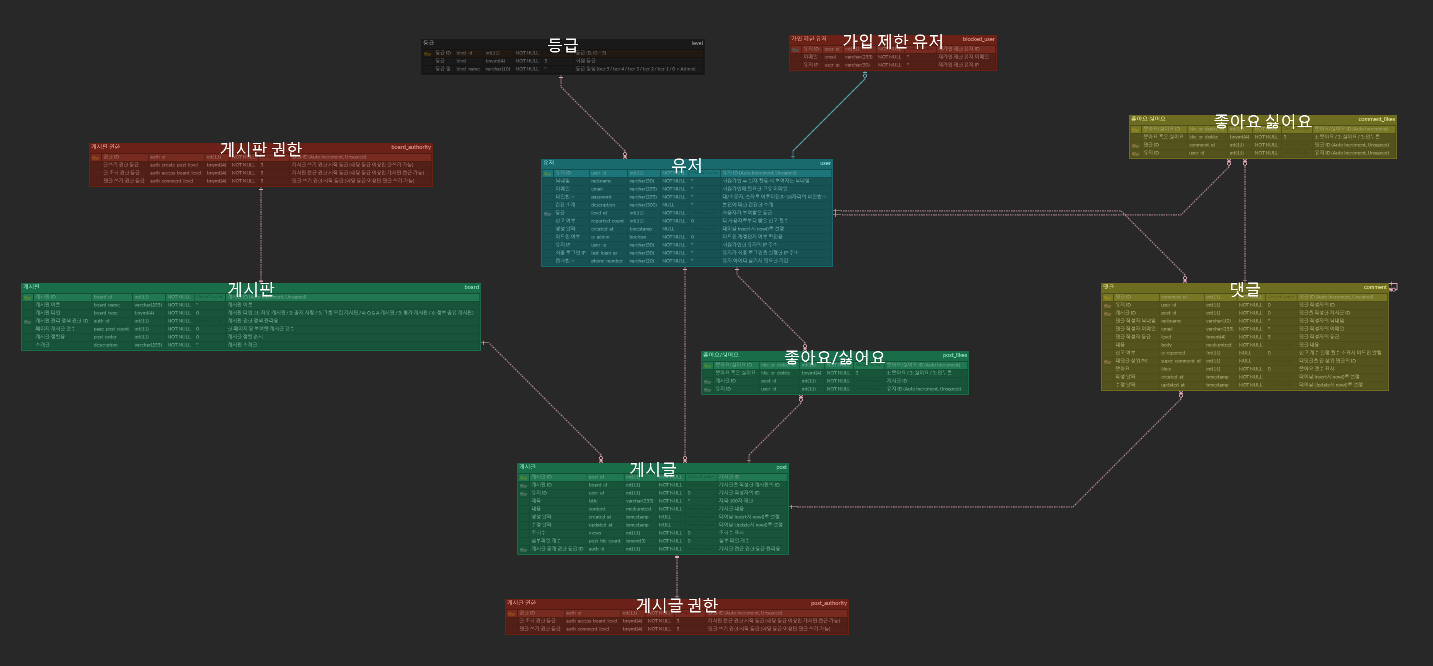
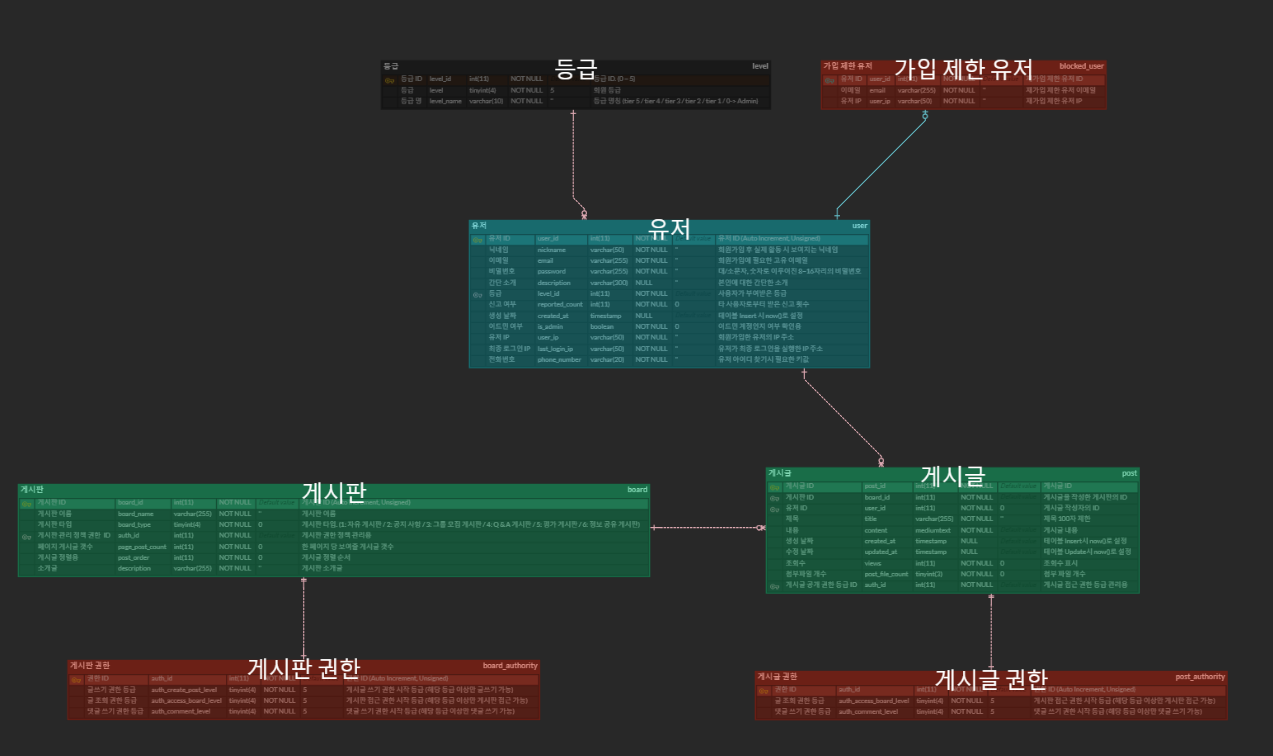
Docs : ReadMe 업데이트

diff --git a/README.md b/README.md
@@ -7,6 +7,16 @@
 * 스터디 그룹 모집의 환경
 * 관리자의 회원 관리
 ### 1.2 기능
+#### 로그인 / 회원 가입 / 로그 아웃 / 회원 탈퇴
+* 로그인 인증을 거치지 않은 사용자는 가장 먼저 로그인 화면으로 이동
+  * 로그인 실패 시 실패했음을 알림
+* 회원 가입 화면으로 들어가면 이메일(아이디), 닉네임, 비밀번호, 전화번호(아이디 찾기 용), 자기 소개를 입력
+  * 이메일, 닉네임, 비밀번호, 전화번호는 필수 입력 사항
+  * 비밀번호는 대소문자 영문 + 숫자 포함 8자리 이상
+  * 이메일, 닉네임이 이미 다른 사용자가 사용중이라면 사용중임을 알림
+  * 비밀번호와 비밀번호 확인까지 일치하면 회원 가입 완료
+* 게시판 위젯으로 사용자 정보와 함께 로그 아웃, 회원 탈퇴 버튼을 제공
+* 회원 탈퇴 시 해당 사용자가 작성한 게시글의 작성자 정보는 null로 표시
 #### 게시판
 * 게시글 목록 조회 기능 (10 단위로 페이징 적용)
 * 각 게시판에 적용된 접근 가능 등급 (회원 등급)에 따른 접근 설정 기능
@@ -39,6 +49,14 @@
   * MySQL 8 (Docker)
 ### 2.2 URL 구조
 #### User Authentication
+| URL             | Method | Function         | Description               | 필수  |
+|-----------------|--------|------------------|---------------------------|-----|
+| /user           | POST   | signup()         | 작성한 폼 내용을 통해 DB에 회원 정보 저장 |     |
+| /delete-account | GET    | deleteId()       | 현재 접속한 사용자의 회원 정보 삭제      | 로그인 |
+| /logout         | GET    | logout()         | 현재 접속한 사용자의 세션 삭제         | 로그인 |
+| /checkUsername  | GET    | checkUsername()  | 회원 가입 시 이메일(아이디) 중복 확인    |     |
+| /checkNickname  | GET    | checkNickname()  | 회원 가입 시 닉네임 중복 확인         |     |
+#### User Authentication View
 | URL     | Method  | Function | HTML File Name | Description |
 |---------|---------|----------|----------------|-------------|
 | /login  | GET     | login()  | login.html     | 로그인 페이지     |
@@ -78,77 +96,103 @@
 ------------
 ## 4. 프로젝트 구조
 ```html
+Windows7 볼륨에 대한 폴더 경로의 목록입니다.
+볼륨 일련 번호는 7092-FC0E입니다.
+C:.
 ├─main
 │  ├─java
 │  │  └─com
 │  │      └─springbootcommunitydevproj
 │  │          │  SpringbootCommunityDevProjApplication.java
-│  │          │  
+│  │          │
 │  │          ├─config
+│  │          │      LoginFailHandler.java
+│  │          │      LogoutListener.java
 │  │          │      SecurityConfig.java
 │  │          │      SwaggerConfig.java
-│  │          │      
+│  │          │
 │  │          ├─controller
+│  │          │      CommentController.java
 │  │          │      PostController.java
 │  │          │      PostViewController.java
-│  │          │      UserAuthController.java
+│  │          │      UserController.java
 │  │          │      UserManagementController.java
 │  │          │      UserManagementViewController.java
-│  │          │      
+│  │          │      UserViewController.java
+│  │          │
 │  │          ├─dto
+│  │          │      ChangePasswordRequest.java
+│  │          │      CommentDto.java
+│  │          │      DeleteUserRequest.java
+│  │          │      MyPage.java
 │  │          │      PostListDto.java
 │  │          │      PostRequest.java
 │  │          │      PostResponse.java
+│  │          │      PostTestDto.java
 │  │          │      UpdatePostRequest.java
 │  │          │      UserManagementInfoDto.java
 │  │          │      UserManagementResponse.java
 │  │          │      UserRequest.java
-│  │          │      
+│  │          │      UserResponse.java
+│  │          │
+│  │          ├─filter
+│  │          │      LoginFilter.java
+│  │          │
 │  │          ├─model
 │  │          │      BlockedUser.java
 │  │          │      Board.java
 │  │          │      BoardAuthority.java
+│  │          │      Comment.java
+│  │          │      CommentLike.java
 │  │          │      Level.java
 │  │          │      Post.java
 │  │          │      PostAuthority.java
 │  │          │      PostLikes.java
 │  │          │      User.java
-│  │          │      
+│  │          │
 │  │          ├─repository
 │  │          │      BlockedUserRepository.java
 │  │          │      BoardAuthorityRepository.java
 │  │          │      BoardRepository.java
+│  │          │      CommentRepository.java
+│  │          │      MypageRepository.java
 │  │          │      PostAuthorityRepository.java
 │  │          │      PostLikesRepository.java
 │  │          │      PostRepository.java
 │  │          │      UserManagementRepository.java
 │  │          │      UserRepository.java
-│  │          │      
+│  │          │
 │  │          ├─service
 │  │          │      BoardService.java
+│  │          │      CommentService.java
 │  │          │      PostService.java
 │  │          │      UserDetailService.java
 │  │          │      UserManagementService.java
-│  │          │      
+│  │          │      UserService.java
+│  │          │
 │  │          └─utils
 │  │                  ResponseMessages.java
-│  │                  
+│  │
 │  └─resources
 │      │  application.yml
-│      │  logback-config.xml
-│      │  Ormi-SpringBoot-ERD-Final.sql
-│      │  
+│      │
 │      ├─static
 │      │      admin-user-management.js
+│      │      findId.js
+│      │      findPassword.js
+│      │      loginFunctions.js
+│      │      myInfoFunctions.js
 │      │      post.js
 │      │      PostCreateOrUpdate.js
 │      │      postList.js
-│      │      
+│      │      signup.js
+│      │
 │      └─templates
 │              admin-user-manage.html
+│              findId.html
+│              findPassword.html
 │              login.html
 │              post.html
-│              PostBoard.html
 │              PostCreateOrUpdate.html
 │              PostList.html
 │              signup.html
@@ -156,16 +200,26 @@
 └─test
     └─java
         └─com
-           ├─springbootcommunitydevproj
-           │    SpringbootCommunityDevProjApplicationTests.java
-           │
-           ├─post
-           │    PostControllerTest.java
-           │    PostServiceTest.java
-           │
-           └─usermanagement
-                UserManagementControllerTest.java
-                UserManagementServiceTest.java
+            └─springbootcommunitydevproj
+              │  SpringbootCommunityDevProjApplicationTests.java
+              │
+              ├─post
+              │      PostControllerTest.java
+              │      PostServiceTest.java
+              │
+              ├─usermanagement
+              |      UserManagementControllerTest.java
+              |      UserManagementServiceTest.java
+              │
+              └─resources
+                     admin_posts_attention_orderby_postId_desc_limit_10_offset_0.json
+                     admin_posts_free_orderby_postId_desc_limit_10_offset_0.json
+                     posts_31_to_36.json
+                     posts_attention_orderby_postId_desc_limit_10_offset_0.json
+                     posts_evaluation_orderby_postId_desc_limit_10_offset_0.json
+                     posts_free_orderby_postId_desc_limit_10_offset_0.json
+                     user_posts_evaluation_orderby_postId_desc_limit_10_offset_0.json
+                     user_posts_free_orderby_postId_desc_limit_10_offset_0.json
 ```
 
 ------------
@@ -180,6 +234,35 @@
 
 ------------
 ## 7. 기능
+### 로그인
+![로그인 화면.jpg](readmeImages/로그인%20화면.jpg) <br>
+_(로그인 화면)_
+* 처음 방문한 사용자는 로그인 화면으로 이동합니다.
+
+
+* 로그인 시 아이디가 이메일 형식에 맞지 않는다면 이메일 형식에 맞지 않는다는 알림을 줍니다.
+
+![로그인 실패 화면.jpg](readmeImages/로그인%20실패%20화면.jpg) <br>
+_(로그인 실패 화면)_
+* 로그인 실패 시 알림을 줍니다.
+### 회원 
+![회원 가입 화면.jpg](readmeImages/회원%20가입%20화면.jpg) <br>
+_(회원 가입 화면)_
+* 회원 가입 시 아이디(이메일), 닉네임, 비밀번호, 비밀번호 확인, 전화번호는 필수 입력 사항입니다.
+
+![회원 가입 이미 사용중인 이메일 화면.jpg](readmeImages/회원%20가입%20이미%20사용중인%20이메일%20화면.jpg) <br>
+_(회원 가입 이미 사용중인 이메일 화면)_
+* 아이디(이메일), 닉네임이 이미 사용중이라면 사용중인 아이디, 닉네임임을 알려줍니다.
+
+
+* 비밀번호는 대소문자 영문 + 숫자 포함 8자리 이상이어야 합니다.
+### 로그 아웃
+* 로그 아웃 시 로그인 화면으로 돌아옵니다.
+### 회원 탈퇴
+* 회원 탈퇴 시 로그인 화면으로 돌아옵니다.
+
+
+* 탈퇴한 회원이 작성한 게시글은 작성자가 null로 표시됩니다.
 ### 게시판
 ![게시판 화면.jpg](readmeImages/게시판%20화면.jpg)<br>
 _(자유 게시판 화면)_
@@ -216,7 +299,7 @@ _(게시글 상세 보기 화면)_ <br>
 
 ![게시글 상세 보기 화면 작성자 본인.jpg](readmeImages/게시글%20상세%20보기%20화면%20작성자%20본인.jpg)<br>
 _(게시글 상세 보기 화면 작성자 본인)_ <br>
-![게시글 쓰기,수정 화면.jpg](readmeImages/게시글%20쓰기,수정%20화면.jpg)<br>
+![게시글 쓰기, 수정 화면.jpg](readmeImages/게시글%20쓰기,%20수정%20화면.jpg)<br>
 _(게시글 쓰기, 수정 화면)_ <br>
 * 해당 게시글이 사용자 본인이 작성한 게시글이라면 수정, 삭제가 가능합니다.
   * 게시글 수정 시 게시글 목록 및 게시글 상세 보기 화면에 표시되는 작성일이 최근 수정 날짜로 바뀝니다.
